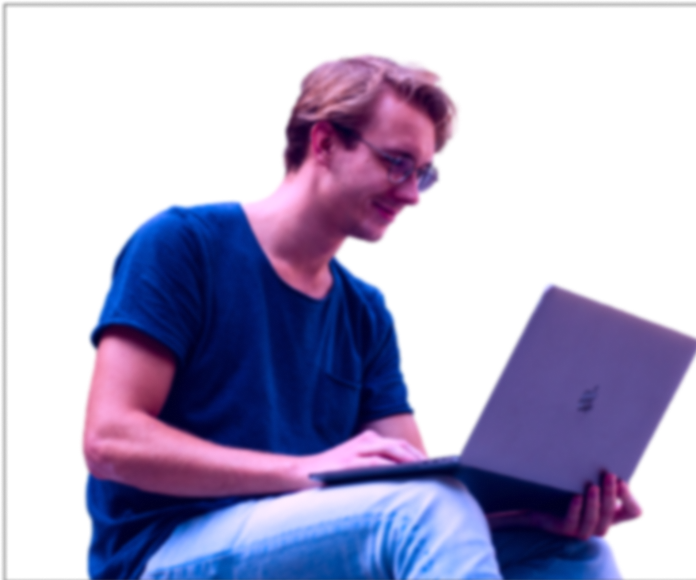
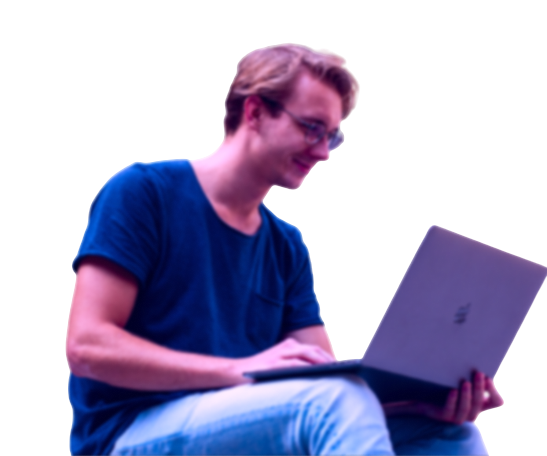
Ajustes na página home nas abas do basico ao avancado

diff --git a/src/components/CNiveis.jsx b/src/components/CNiveis.jsx
@@ -1,29 +1,49 @@
+import { useState } from 'react';
 import { Nav, NavItem, NavLink } from 'reactstrap';
+import { CAvancado } from './CAvancado';
+import { CIniciante } from './CIniciante';
+import { CIntermediario } from './CIntermediario';
 export function CNiveis () {
+
+    const [activeTab, setActiveTab] = useState("CIniciante");
+
+    const handleTab1 = () => {
+        setActiveTab("CIniciante");
+      };
+    const handleTab2 = () => {
+        setActiveTab("CIntermediario");
+      };
+
+    const handleTab3 = () => {
+        setActiveTab("CAvancado");
+    };
+
     return (
         <div> 
-            <div className="row">
-                <Nav className='mt-2'>
+            <div className="row Tabs">
+                <Nav className='mt-2 nav'>
                     <NavItem>
-                        <NavLink className='text-light fs-3' href="#1" nivel='iniciante'>
+                        <NavLink className={`text-light fs-3 ${activeTab === "CIniciante" ? "active" : ""}`} onClick={handleTab1} href="#1">
                         Iniciante
                         </NavLink>
-                        <div className="barra-iniciante"></div>
+                        {activeTab === "CIniciante" ? <div className="barra-iniciante"></div> : ""}
                     </NavItem>
                     <NavItem>
-                        <NavLink className='text-light fs-3' href="#2" nivel='intermediario'>
+                        <NavLink className={`text-light fs-3 ${activeTab === "CIntermediario" ? "active" : ""}`} onClick={handleTab2} href="#2">
                         Intermediario
                         </NavLink>
+                        {activeTab === "CIntermediario" ? <div className="barra-iniciante"></div> : ""}
                     </NavItem>
                     <NavItem>
-                        <NavLink className='text-light fs-3' href="#3" nivel='avancado'>
+                        <NavLink className={`text-light fs-3 ${activeTab === "CAvancado" ? "active" : ""}`} onClick={handleTab3} href="#3">
                         Avançado
                         </NavLink>
+                        {activeTab === "CAvancado" ? <div className="barra-iniciante"></div> : ""}
                     </NavItem>
                 </Nav>
                 <hr className='text-light' />
+                {activeTab === "CIniciante" ? <CIniciante/> : activeTab === "CIntermediario" ? <CIntermediario/> : <CAvancado/>}
             </div>
         </div>
-
     )
 }

diff --git a/src/components/CAvancado.jsx b/src/components/CAvancado.jsx
@@ -1,0 +1,23 @@
+import { Button } from 'reactstrap';
+import meninoHome from '../assets/meninoHome.png';
+import trending  from '../assets/trending-up.svg';
+
+export function CAvancado () {
+    return (
+        <div>
+            <div className="row mt-2">
+                <div className="col-sm-4 col-md-6 CIniciante">
+                    <p className="fs-2" style={{color: "#9400D3"}}>Você já sabe muito né?<br /> Mas sempre temos mais a aprender!</p>
+                    <p className="text-light">Temos um espaço perfeito para mais desafios!</p>
+                    <Button className='CButtonHome' style={{backgroundColor: "#9400D3"}}>
+                    Quero conhecer!
+                        <img src={trending}/>
+                    </Button> 
+                </div>
+                <div className="col-sm-4 col-md-6 mt-5">
+                    <img src={meninoHome} width={340} height={320} alt="" />
+                </div>
+            </div>
+        </div>
+    )
+}

diff --git a/src/components/CIniciante.jsx b/src/components/CIniciante.jsx
@@ -1,0 +1,23 @@
+import { Button } from 'reactstrap';
+import maoHome from '../assets/maoHome.png';
+import trending  from '../assets/trending-up.svg';
+
+export function CIniciante () {
+    return (
+        <div>
+            <div className="row mt-2">
+                <div className="col-sm-4 col-md-6 CIniciante">
+                    <p className="fs-2" style={{color: "#9400D3"}}>É novo na área? <br /> Temos um plano pra você!</p>
+                    <p className="text-light">Aqui você vai sair do 0 ao avançado em <br /> questão de tempo.</p>
+                    <Button className='CButtonHome' style={{backgroundColor: "#9400D3"}}>
+                    Quero conhecer!
+                        <img src={trending}/>
+                    </Button> 
+                </div>
+                <div className="col-sm-4 col-md-6 mt-5">
+                    <img src={maoHome} width={320} height={320} alt="" />
+                </div>
+            </div>
+        </div>
+    )
+}

diff --git a/src/components/CIntermediario.jsx b/src/components/CIntermediario.jsx
@@ -1,0 +1,23 @@
+import { Button } from 'reactstrap';
+import computadorHome from '../assets/computadorHome.png';
+import trending  from '../assets/trending-up.svg';
+
+export function CIntermediario () {
+    return (
+        <div>
+            <div className="row mt-2">
+                <div className="col-sm-4 col-md-6 CIniciante">
+                    <p className="fs-2" style={{color: "#52BCBF"}}>Já tem algum<br /> conhecimento?</p>
+                    <p className="text-light">Temos lugar para você também!</p>
+                    <Button className='CButtonHome' style={{backgroundColor: "#52BCBF"}}>
+                    Quero conhecer!
+                        <img src={trending}/>
+                    </Button> 
+                </div>
+                <div className="col-sm-4 col-md-6 mt-5">
+                    <img src={computadorHome} width={320} height={320} alt="" />
+                </div>
+            </div>
+        </div>
+    )
+}

diff --git a/src/pages/Home.jsx b/src/pages/Home.jsx
@@ -1,26 +1,11 @@
 import '../styles/Home.css';
 import '../styles/main.css';
-import maoHome from '../assets/maoHome.png';
-import { CButtonHome } from '../components/CButtonHome';
 import { CNiveis } from '../components/CNiveis';
-import { CTextoGrande } from '../components/CTextoGrande';
-import { CTextoPequeno } from '../components/CTextoPequeno';
 
 function Home() {
   return (
     <div className="Home ms-5 me-5">
       <CNiveis />
-      <br />
-      <div className="row">
-          <div className="col-sm-4 col-md-6">
-            <CTextoGrande color="#9400D3" />
-            <CTextoPequeno/>
-            <CButtonHome color="#9400D3" text="Quero conhecer"/>
-          </div>
-          <div className="col-sm-4 col-md-6 mt-5">
-            <img className="" src={maoHome} width={320} height={320} alt="" />
-          </div>
-      </div>
     </div>
   );
 }

diff --git a/public/index.html b/public/index.html
@@ -69,14 +69,15 @@
         <!-- <img src="../assets/Educação.gif" alt="" class="img-fluid"> -->
     </div>
 
+    <div id="root"></div>
+    
     <!-- Nossa Missão -->
     <div class="missao">
         <h1>Nossa Missão</h1>
         <p>O principal objetivo da LinUS é, além de democratizar o ensino, facilitar o entendimento sobre o sistema
             operacional Linux, transformando a visão que pessoas comuns têm sobre ele e suas distribuições</p>
     </div>
-    <div id="root"></div>
-
+   
 
     <!-- Footer -->
     <div class="footer-basic">

diff --git a/src/styles/Home.css b/src/styles/Home.css
@@ -1,6 +1,6 @@
 .CButtonHome img{
-  width: 100px;
-  height: 100px;
+  width: 36px;
+  height: 40px;
 }
 
 body {
